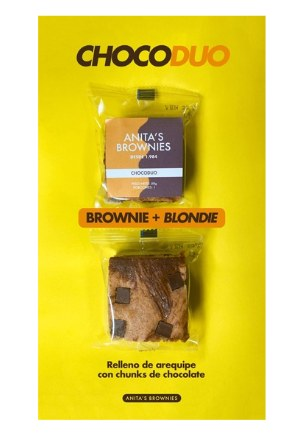
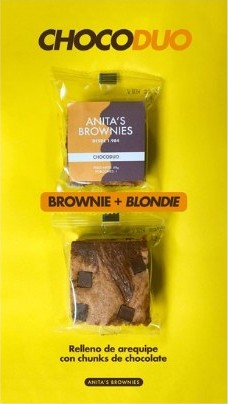
Postre: Chocoduo completo, en alto junto a las cajas de brownies

diff --git a/index.html b/index.html
@@ -95,6 +95,8 @@ section{padding:64px 0}
 .media a img{width:100%;height:100%;object-fit:cover;transition:.4s}
 .media a:hover img{transform:scale(1.05)}
 .media a.grande{grid-column:span 2;aspect-ratio:16/10}
+.media a.alto{grid-row:span 2;aspect-ratio:auto;background:#f6c400}
+.media a.alto img{object-fit:contain}
 .media.tres{grid-template-columns:repeat(3,1fr)}
 .media.tres a{aspect-ratio:1}
 
@@ -301,9 +303,9 @@ footer .wrap{display:flex;flex-wrap:wrap;justify-content:space-between;gap:10px;
       <a class="grande" href="images/postre-brochure.jpg" data-lb="Dulce, indulgente, inolvidable"><img src="images/postre-brochure.jpg" alt="Vela tipo postre de chocolate rodeada de fresas" loading="lazy"></a>
       <a href="images/cheesecake-1.jpg" data-lb="Cheesecake de fresa"><img src="images/cheesecake-1.jpg" alt="Cheesecake de fresa" loading="lazy"></a>
       <a href="images/cheesecake-2.jpg" data-lb="Fresas y coulis"><img src="images/cheesecake-2.jpg" alt="Detalle de fresas sobre cheesecake" loading="lazy"></a>
+      <a class="alto" href="images/chocoduo.jpg" data-lb="Chocoduo: brownie + blondie, relleno de arequipe con chunks de chocolate"><img src="images/chocoduo.jpg" alt="Chocoduo: brownie y blondie rellenos de arequipe" loading="lazy"></a>
       <a href="images/brownies-1.jpg" data-lb="Caja de brownies para acompañar"><img src="images/brownies-1.jpg" alt="Caja blanca con brownies surtidos" loading="lazy"></a>
       <a href="images/brownies-2.jpg" data-lb="Caja de brownies surtidos"><img src="images/brownies-2.jpg" alt="Caja abierta con brownies de varios sabores" loading="lazy"></a>
-      <a class="grande" href="images/chocoduo.jpg" data-lb="Chocoduo: brownie + blondie, relleno de arequipe con chunks de chocolate"><img src="images/chocoduo.jpg" alt="Chocoduo: brownie y blondie rellenos de arequipe" loading="lazy" style="object-position:center 30%"></a>
     </div>
   </div>
 </section>
